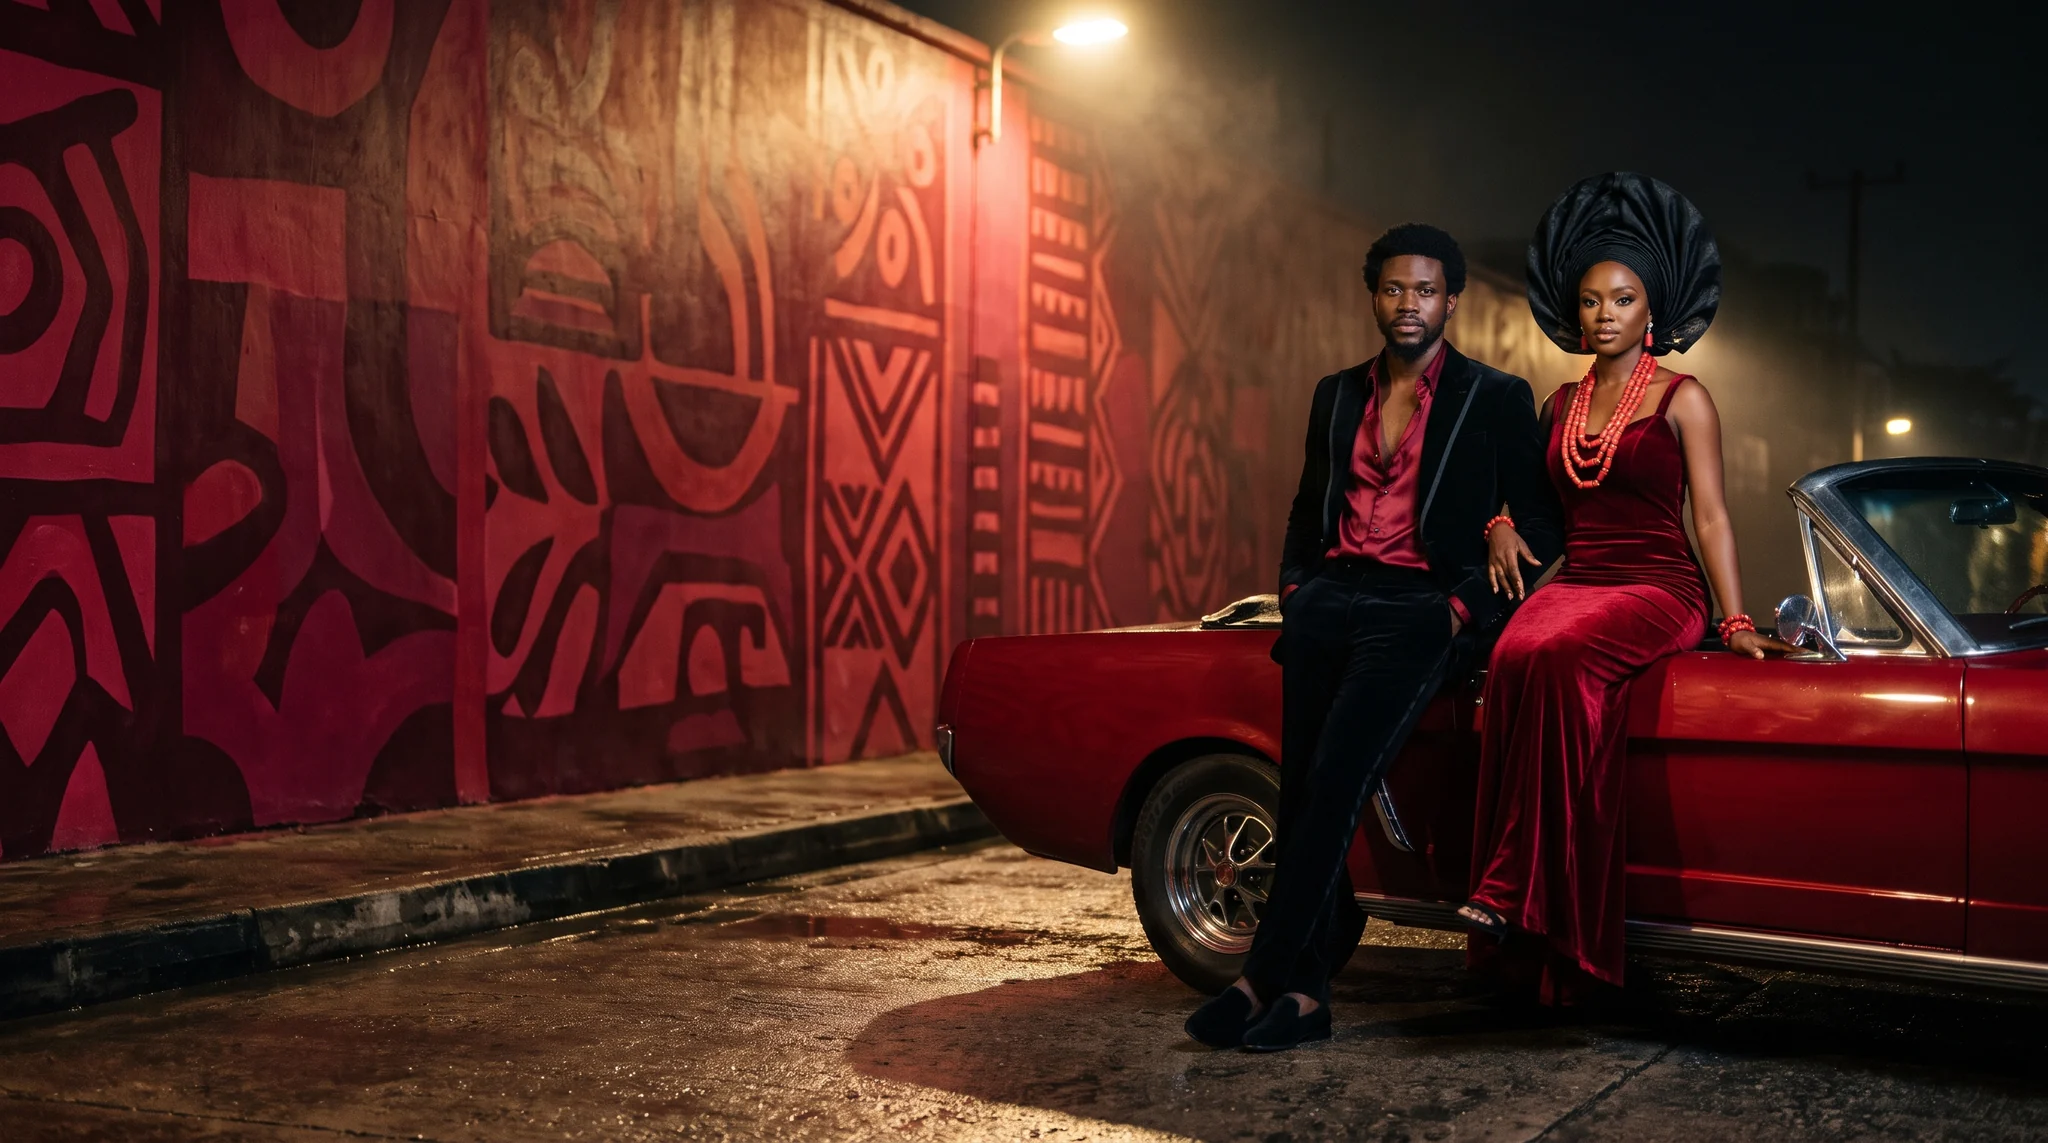
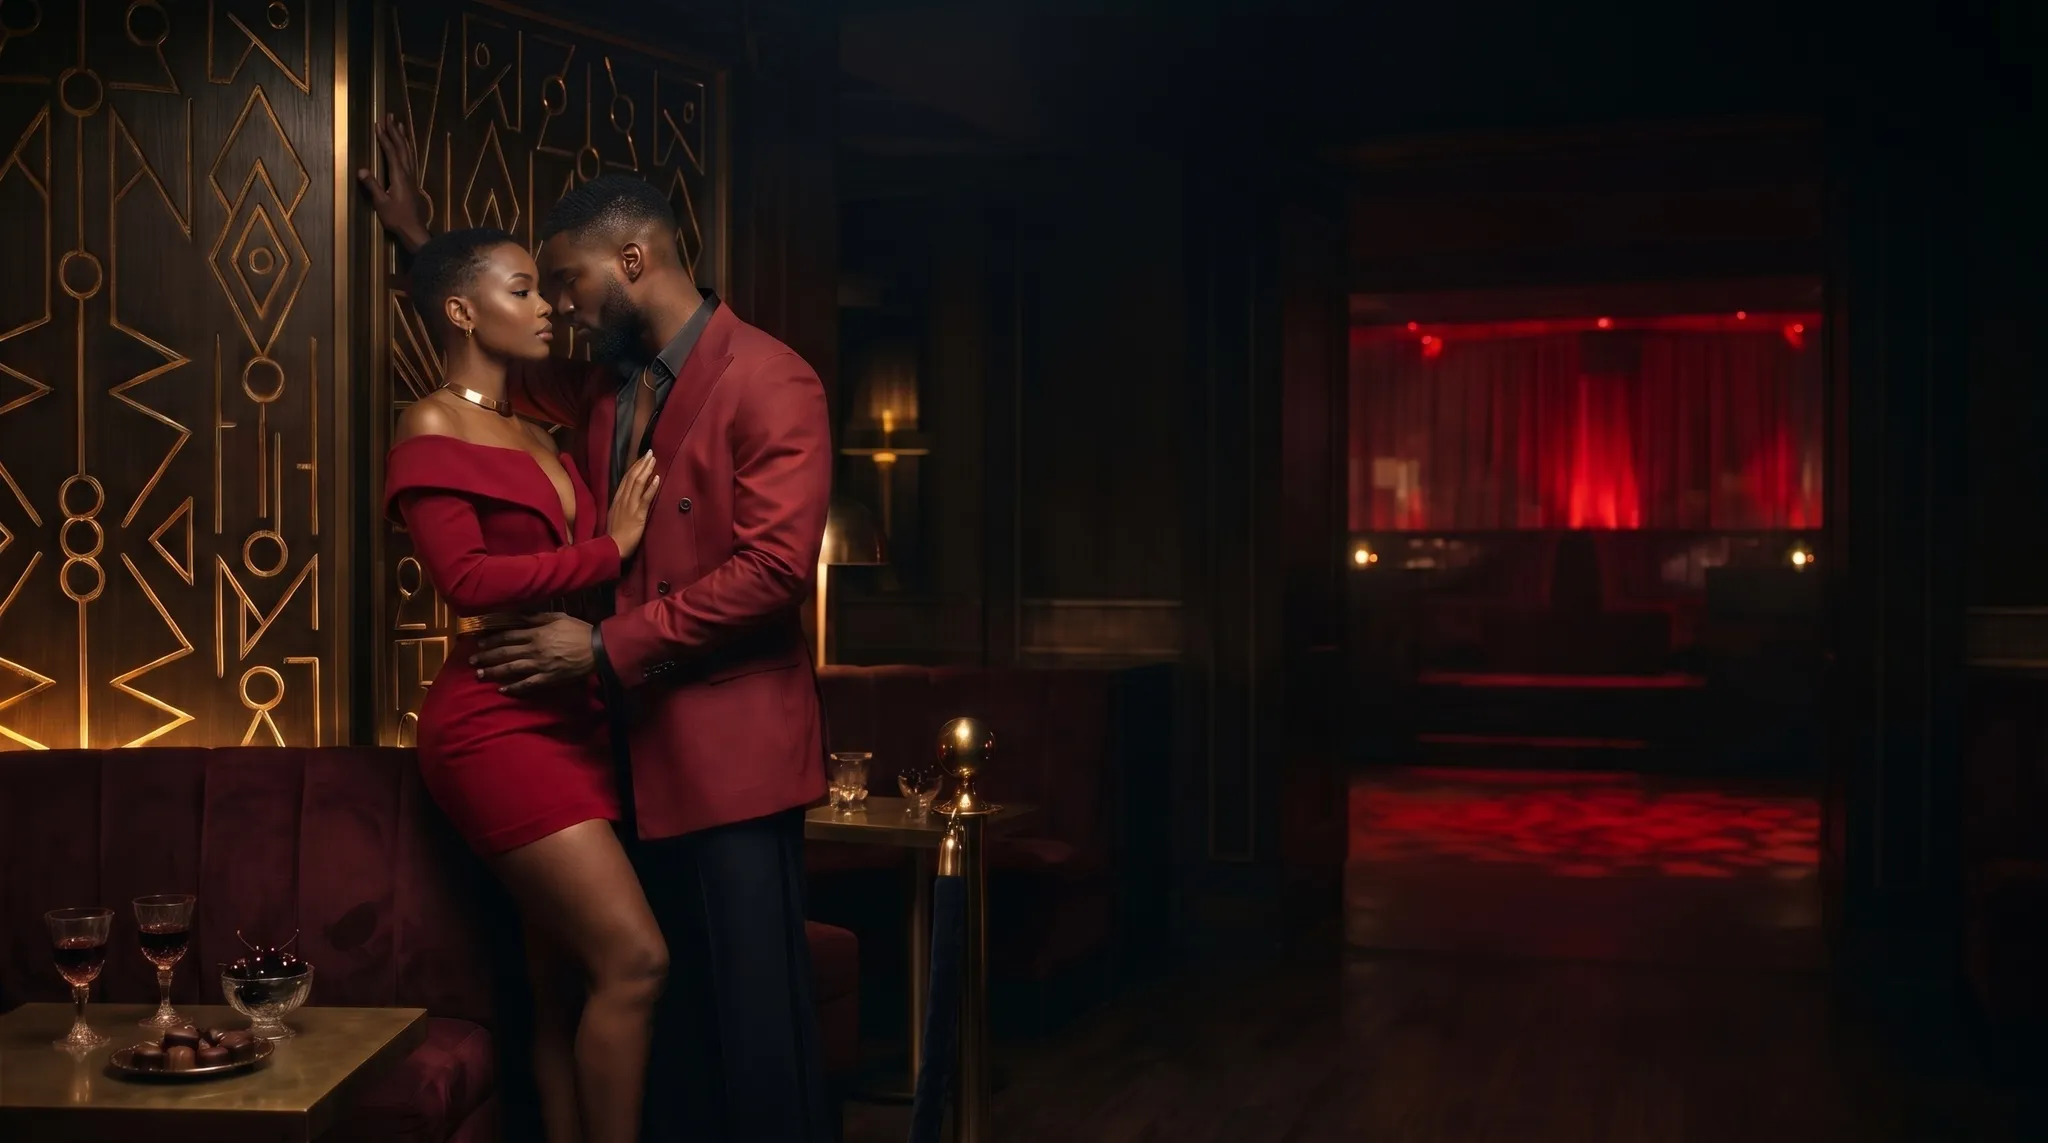
Ruby Oba scene: ENZIWA VIP lounge, couple against the gold pattern screen; phone picture cut from the wide one for now

diff --git a/index.html b/index.html
@@ -426,10 +426,11 @@ var BL = [
         navsh:"0 1px 3px rgba(0,0,0,.85),0 0 14px rgba(20,2,8,.9)"},
    // the name in gold over a dark cherry shade across the top, like Oud Panga: a busy photo needs solid letters
    nameStyle:{fill:["#F3DC9A","#D9AE52","#9C7225"], op:0.92, glow:"rgba(0,0,0,.55)", blur:18, shade:0.5, shadeTo:0.4, shadeRGB:"30,4,10"},
-   // scene (21 Nov): West African city at night, cherry red mural wall, vintage open top car, couple in red velvet and black.
-   // Whole photo as one layer; the front layer is empty. Sources: scene/ruby-oba-scene*.jpg (Gemini, free)
-   layers:{wide:{w:2048,h:1143,sky:"img/scenes/ruby-oba-sky.webp?v=1",fg:"img/scenes/empty-fg.webp"},
-           tall:{w:1080,h:2160,head:0.44,sky:"img/scenes/ruby-oba-sky-tall.webp?v=1",fg:"img/scenes/empty-fg.webp"}}},
+   // scene (TJ, 21 Nov): ENZIWA VIP lounge, the couple against the glowing gold pattern screen on the left, red dance floor far right.
+   // Whole photo as one layer; the front layer is empty. Sources: scene/ruby-oba-scene*.jpg (Gemini, free).
+   // The tall picture is a cut from the wide one for now; it has no headroom, so it is centred, not anchored to the bottle.
+   layers:{wide:{w:2048,h:1143,sky:"img/scenes/ruby-oba-sky.webp?v=lounge",fg:"img/scenes/empty-fg.webp"},
+           tall:{w:1080,h:2160,sky:"img/scenes/ruby-oba-sky-tall.webp?v=lounge",fg:"img/scenes/empty-fg.webp"}}},
   {n:31,name:"Oud Panga",top:["Strawberry","Candied pear","Marshmallow"],heart:["Caramel","Jasmine"],base:["Oud","Sandalwood","Vanilla","Sugar"],
    desc:"Sweet candy over soft oud and sandalwood. Evening and date night, unisex. Strong projection and powerful staying power. Like sugared fruit laid out on a warm sandalwood table.",
    col:["#d98a7a","#c0745c","#8a5640"], sc:["#d9894a","#a8452a","#5c1f14"], seal:{wide:[0.5,0.76], tall:[0.5,0.6]},
